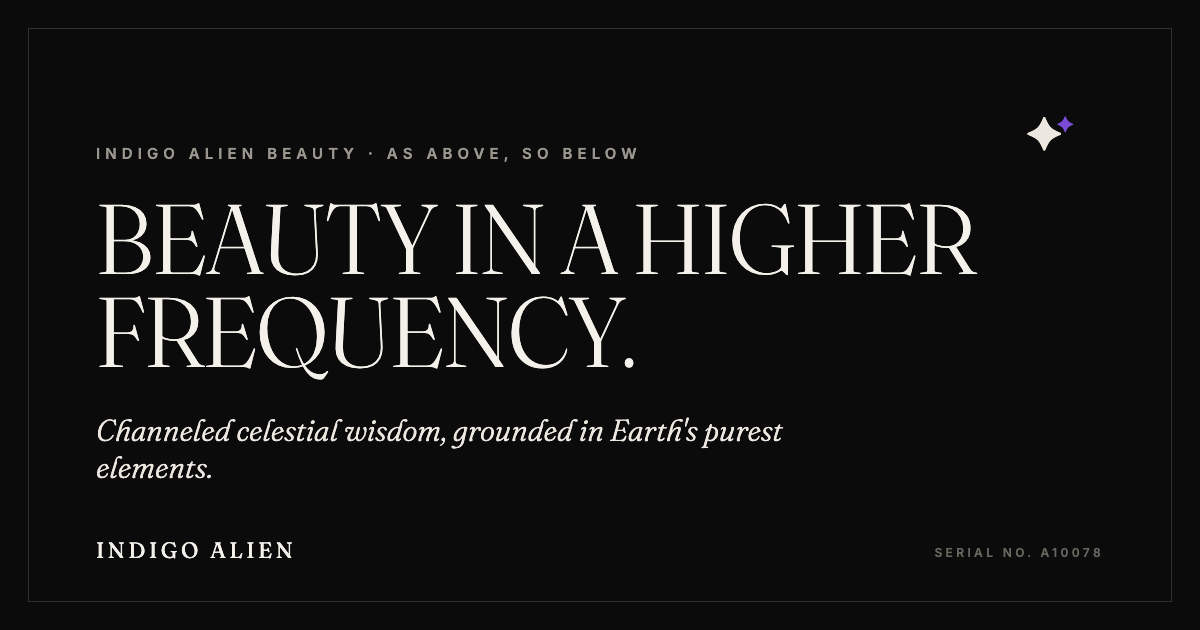
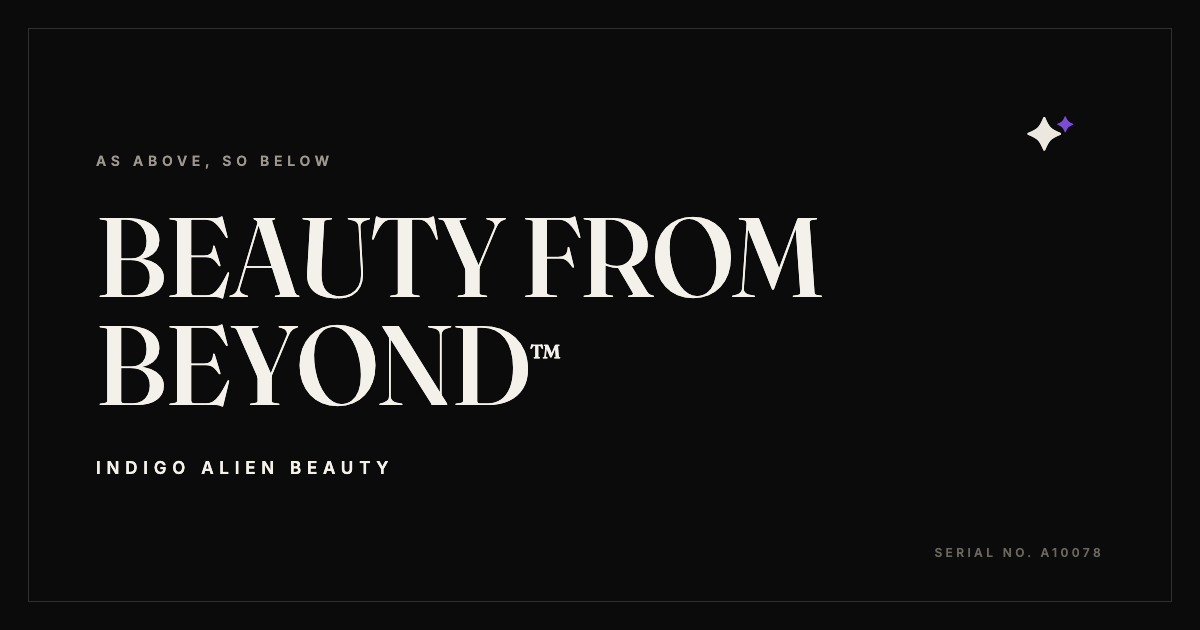
OG image: Beauty from Beyond

diff --git a/indigo-alien-v2/about.html b/indigo-alien-v2/about.html
@@ -21,7 +21,7 @@
 <meta property="og:image" content="https://justingossman.github.io/indigo-alien-v2/og-image.png">
 <meta property="og:image:width" content="1200">
 <meta property="og:image:height" content="630">
-<meta property="og:image:alt" content="Indigo Alien Beauty — Beauty in a Higher Frequency">
+<meta property="og:image:alt" content="Indigo Alien Beauty — Beauty from Beyond">
 <!-- Twitter -->
 <meta name="twitter:card" content="summary_large_image">
 <meta name="twitter:title" content="Indigo Alien Beauty — Beauty from Beyond">

diff --git a/indigo-alien-v2/contact.html b/indigo-alien-v2/contact.html
@@ -21,7 +21,7 @@
 <meta property="og:image" content="https://justingossman.github.io/indigo-alien-v2/og-image.png">
 <meta property="og:image:width" content="1200">
 <meta property="og:image:height" content="630">
-<meta property="og:image:alt" content="Indigo Alien Beauty — Beauty in a Higher Frequency">
+<meta property="og:image:alt" content="Indigo Alien Beauty — Beauty from Beyond">
 <!-- Twitter -->
 <meta name="twitter:card" content="summary_large_image">
 <meta name="twitter:title" content="Indigo Alien Beauty — Beauty from Beyond">

diff --git a/indigo-alien-v2/index.html b/indigo-alien-v2/index.html
@@ -22,7 +22,7 @@
 <meta property="og:image" content="https://justingossman.github.io/indigo-alien-v2/og-image.png">
 <meta property="og:image:width" content="1200">
 <meta property="og:image:height" content="630">
-<meta property="og:image:alt" content="Indigo Alien Beauty — Beauty in a Higher Frequency">
+<meta property="og:image:alt" content="Indigo Alien Beauty — Beauty from Beyond">
 <!-- Twitter -->
 <meta name="twitter:card" content="summary_large_image">
 <meta name="twitter:title" content="Indigo Alien Beauty — Beauty from Beyond">

diff --git a/indigo-alien-v2/rituals.html b/indigo-alien-v2/rituals.html
@@ -21,7 +21,7 @@
 <meta property="og:image" content="https://justingossman.github.io/indigo-alien-v2/og-image.png">
 <meta property="og:image:width" content="1200">
 <meta property="og:image:height" content="630">
-<meta property="og:image:alt" content="Indigo Alien Beauty — Beauty in a Higher Frequency">
+<meta property="og:image:alt" content="Indigo Alien Beauty — Beauty from Beyond">
 <!-- Twitter -->
 <meta name="twitter:card" content="summary_large_image">
 <meta name="twitter:title" content="Indigo Alien Beauty — Beauty from Beyond">
